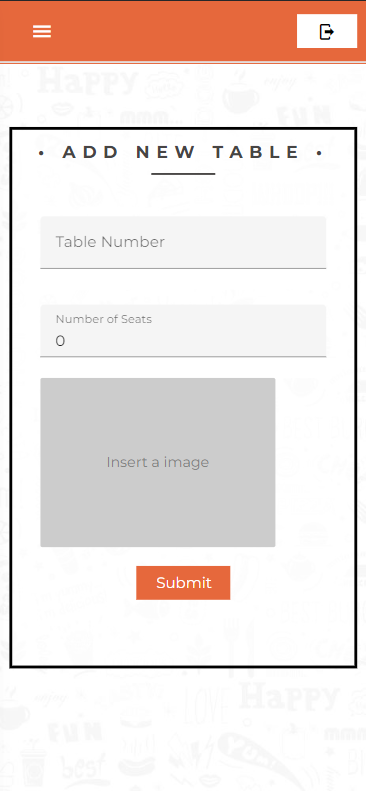
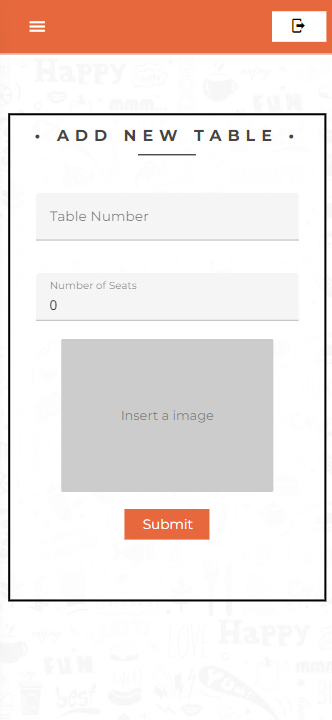
add table updated

diff --git a/src/Views/AddTable.vue b/src/Views/AddTable.vue
@@ -4,7 +4,7 @@
       <h1>&bull; Add New Table &bull;</h1>
       <div class="underline mt-2"></div>
       <v-form @submit.prevent="addTableToDb" ref="form" class="mt-4">
-        <div class="img-box-container">
+        <div class="form-box-container">
           <div class="text-box-container">
             <v-text-field
               class="my-4 text-box"
@@ -24,12 +24,14 @@
               required
             ></v-text-field>
           </div>
-          <v-img
-            :class="isbase64Available ? 'bg-transparent' : 'input-img'"
-            @click="onClickImage"
-            :aspect-ratio="1"
-            :src="tableInfo.base64 != null ? tableInfo.base64 : renderImage()"
-          ></v-img>
+          <div class="img-box-container">
+            <v-img
+              :class="isbase64Available ? 'bg-transparent' : 'input-img'"
+              @click="onClickImage"
+              :aspect-ratio="1"
+              :src="tableInfo.base64 != null ? tableInfo.base64 : renderImage()"
+            ></v-img>
+          </div>
         </div>
         <v-row>
           <v-col>
@@ -159,13 +161,20 @@ form {
   padding: 20px;
   margin: 40px 0;
 }
-.img-box-container {
+.form-box-container {
   display: flex;
   flex-direction: column;
   height: auto;
 }
+.img-box-container {
+  display: flex;
+  justify-content: center;
+}
+/* .img-box-container img {
+  display: block;
+} */
 @media screen and (min-width: 768px) {
-  .img-box-container {
+  .form-box-container {
     flex-direction: row;
     justify-content: space-between;
     height: 200px;
